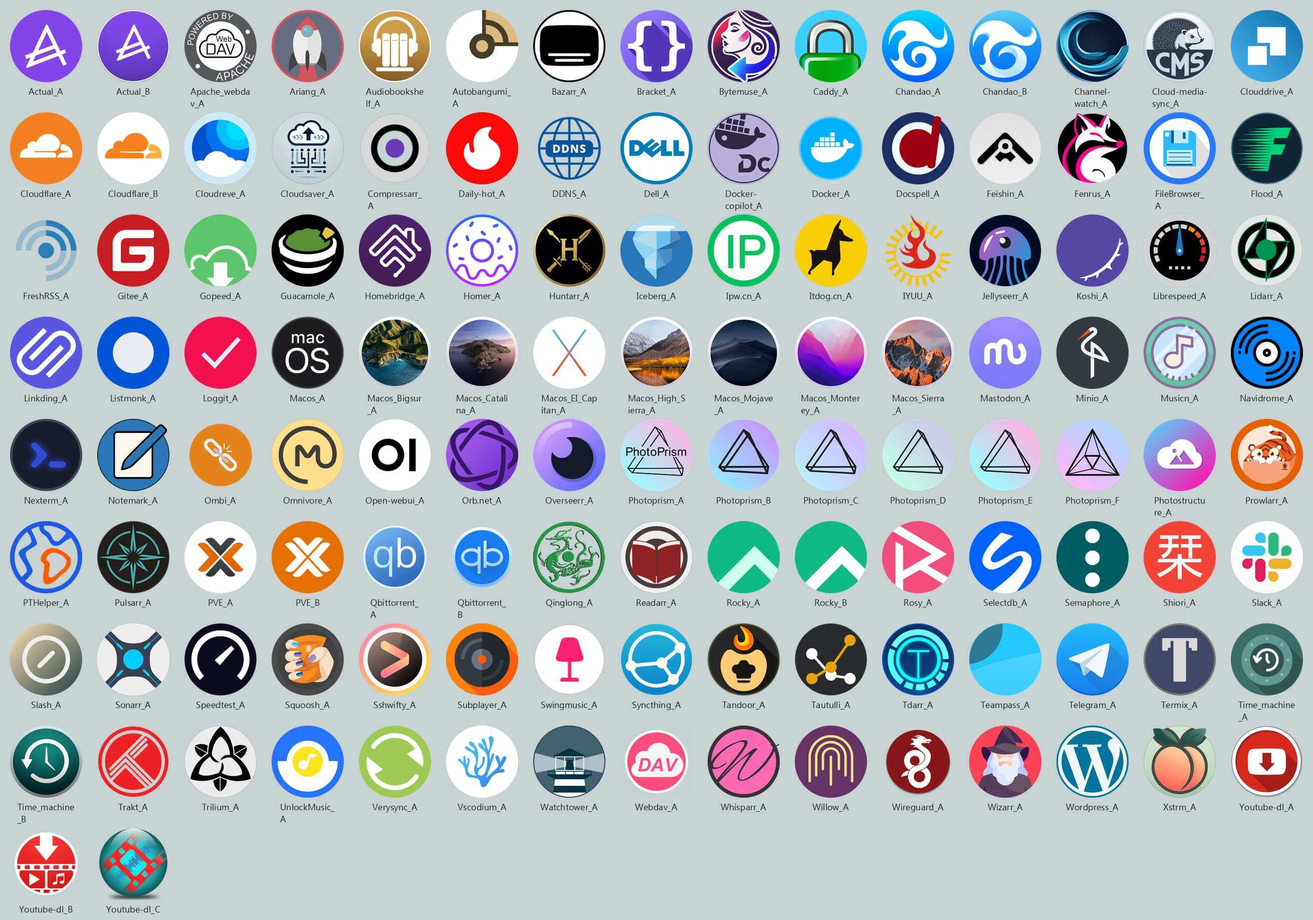
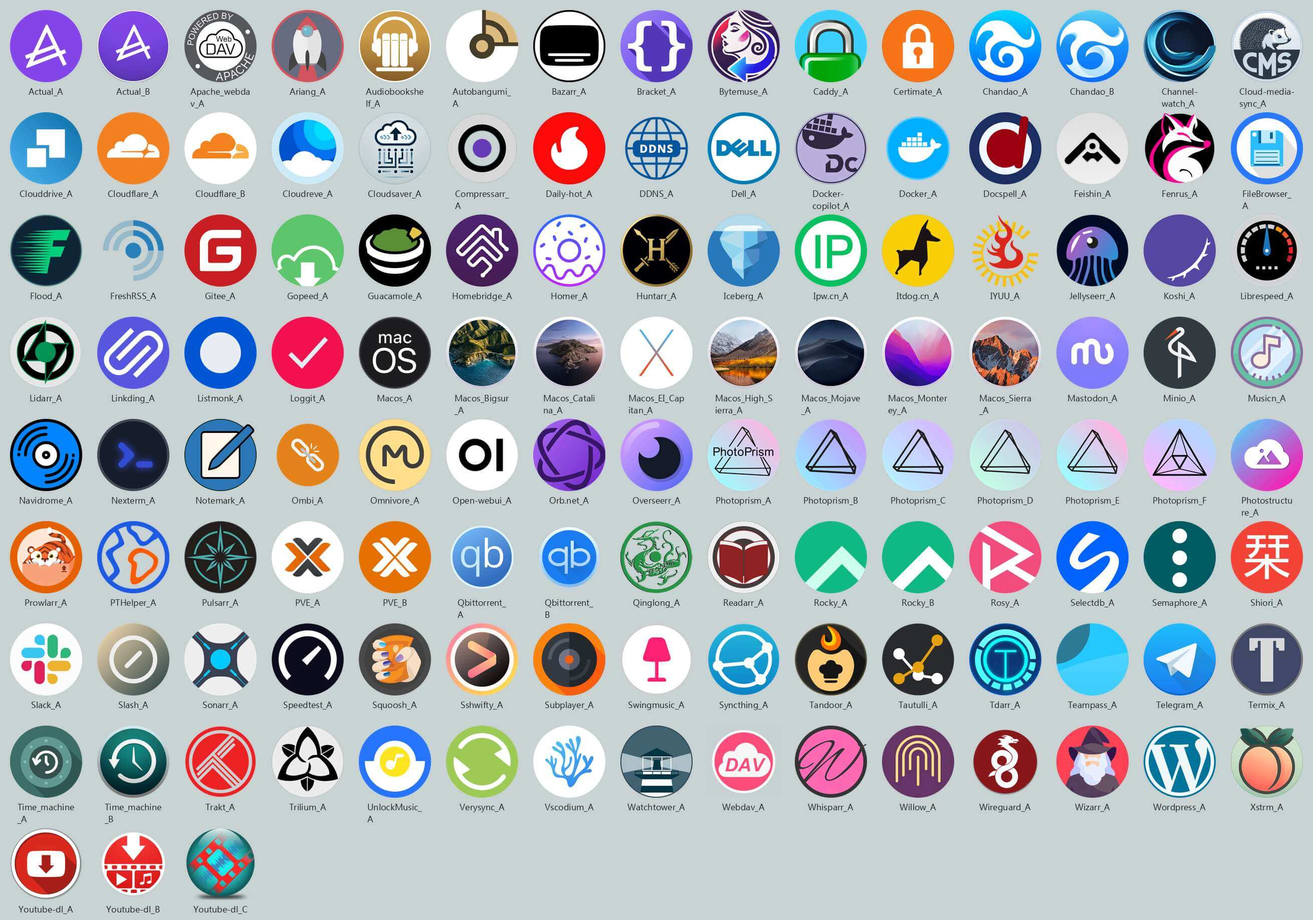
Add Certimate Pangolin Perlite Quark

diff --git a/README.md b/README.md
@@ -138,7 +138,7 @@
 直接导入图标包：`https://raw.githubusercontent.com/xushier/HD-Icons/main/icons.json`，若无反应，则需要开启代理环境。
 不想使用代理可以自己部署，详情请看：<a href="https://github.com/xushier/HD-Icons-docker"><strong>HD-Icons-docker »</strong></a>
 
-## ✨ 图标预览（当前共计 1478 个）
+## ✨ 图标预览（当前共计 1487 个）
 ### 圆角矩形图标
 <!-- START BORDER-RADIUS ICONS -->
 <img src="_icons-radius.jpg" alt="radius">
@@ -153,7 +153,7 @@
 <!-- START SVG ICONS -->
 
 <!-- END SVG ICONS -->
-<img src="svg/9Kuai_A.svg" alt="9Kuai_A" width="95"> <img src="svg/Actual_A.svg" alt="Actual_A" width="95"> <img src="svg/Acunetix_A.svg" alt="Acunetix_A" width="95"> <img src="svg/Adguard-home_A.svg" alt="Adguard-home_A" width="95"> <img src="svg/Adminer_A.svg" alt="Adminer_A" width="95"> <img src="svg/Airflow_A.svg" alt="Airflow_A" width="95"> <img src="svg/Airflow_B.svg" alt="Airflow_B" width="95"> <img src="svg/Airflow_C.svg" alt="Airflow_C" width="95"> <img src="svg/Alicloud_A.svg" alt="Alicloud_A" width="95"> <img src="svg/Alist_A.svg" alt="Alist_A" width="95"> <img src="svg/Amule_A.svg" alt="Amule_A" width="95"> <img src="svg/Anaconda_A.svg" alt="Anaconda_A" width="95"> <img src="svg/Anirss_A.svg" alt="Anirss_A" width="95"> <img src="svg/Apache_A.svg" alt="Apache_A" width="95"> <img src="svg/Apache_B.svg" alt="Apache_B" width="95"> <img src="svg/Apache_C.svg" alt="Apache_C" width="95"> <img src="svg/Appletv+_A.svg" alt="Appletv+_A" width="95"> <img src="svg/Aqua_A.svg" alt="Aqua_A" width="95"> <img src="svg/Arch_A.svg" alt="Arch_A" width="95"> <img src="svg/Atuin_A.svg" alt="Atuin_A" width="95"> <img src="svg/Audio-bookshelf_A.svg" alt="Audio-bookshelf_A" width="95"> <img src="svg/Authelia_A.svg" alt="Authelia_A" width="95"> <img src="svg/Authelia_B.svg" alt="Authelia_B" width="95"> <img src="svg/Authentik_A.svg" alt="Authentik_A" width="95"> <img src="svg/Autobrr_A.svg" alt="Autobrr_A" width="95"> <img src="svg/Baidu_A.svg" alt="Baidu_A" width="95"> <img src="svg/Bard_A.svg" alt="Bard_A" width="95"> <img src="svg/Baserow_A.svg" alt="Baserow_A" width="95"> <img src="svg/Bazarr_A.svg" alt="Bazarr_A" width="95"> <img src="svg/BigDataTools_A.svg" alt="BigDataTools_A" width="95"> <img src="svg/Bilibili_A.svg" alt="Bilibili_A" width="95"> <img src="svg/Bililive-recorder_A.svg" alt="Bililive-recorder_A" width="95"> <img src="svg/Bitwarden_A.svg" alt="Bitwarden_A" width="95"> <img src="svg/Bitwarden_B.svg" alt="Bitwarden_B" width="95"> <img src="svg/Blinko_A.svg" alt="Blinko_A" width="95"> <img src="svg/Blossom_A.svg" alt="Blossom_A" width="95"> <img src="svg/Bracket_A.svg" alt="Bracket_A" width="95"> <img src="svg/Bytebase_A.svg" alt="Bytebase_A" width="95"> <img src="svg/Caddy_A.svg" alt="Caddy_A" width="95"> <img src="svg/Cal.com_A.svg" alt="Cal.com_A" width="95"> <img src="svg/Calibre-web_A.svg" alt="Calibre-web_A" width="95"> <img src="svg/Casaos_A.svg" alt="Casaos_A" width="95"> <img src="svg/Centos_A.svg" alt="Centos_A" width="95"> <img src="svg/Centos_B.svg" alt="Centos_B" width="95"> <img src="svg/Chatgpt_A.svg" alt="Chatgpt_A" width="95"> <img src="svg/Chatgpt_B.svg" alt="Chatgpt_B" width="95"> <img src="svg/Chevereto_A.svg" alt="Chevereto_A" width="95"> <img src="svg/Chrome_A.svg" alt="Chrome_A" width="95"> <img src="svg/Cisco_A.svg" alt="Cisco_A" width="95"> <img src="svg/Claper_A.svg" alt="Claper_A" width="95"> <img src="svg/CLion_A.svg" alt="CLion_A" width="95"> <img src="svg/Cloud-beaver_A.svg" alt="Cloud-beaver_A" width="95"> <img src="svg/Cloud-beaver_B.svg" alt="Cloud-beaver_B" width="95"> <img src="svg/Cloudflare_A.svg" alt="Cloudflare_A" width="95"> <img src="svg/Cloudflare_B.svg" alt="Cloudflare_B" width="95"> <img src="svg/Cloudreve_A.svg" alt="Cloudreve_A" width="95"> <img src="svg/Code-server_A.svg" alt="Code-server_A" width="95"> <img src="svg/Code-with-me_A.svg" alt="Code-with-me_A" width="95"> <img src="svg/Codex-docs_A.svg" alt="Codex-docs_A" width="95"> <img src="svg/Cooler-control_A.svg" alt="Cooler-control_A" width="95"> <img src="svg/Cyberchef_A.svg" alt="Cyberchef_A" width="95"> <img src="svg/Cyberchef_B.svg" alt="Cyberchef_B" width="95"> <img src="svg/DataGrip_A.svg" alt="DataGrip_A" width="95"> <img src="svg/Datalore_A.svg" alt="Datalore_A" width="95"> <img src="svg/DataSpell_A.svg" alt="DataSpell_A" width="95"> <img src="svg/Dawarich_A.svg" alt="Dawarich_A" width="95"> <img src="svg/Debian_A.svg" alt="Debian_A" width="95"> <img src="svg/Debian_B.svg" alt="Debian_B" width="95"> <img src="svg/Deepin_A.svg" alt="Deepin_A" width="95"> <img src="svg/Deepseek_A.svg" alt="Deepseek_A" width="95"> <img src="svg/Dell_A.svg" alt="Dell_A" width="95"> <img src="svg/Deluge_A.svg" alt="Deluge_A" width="95"> <img src="svg/Directus_A.svg" alt="Directus_A" width="95"> <img src="svg/Directus_B.svg" alt="Directus_B" width="95"> <img src="svg/Discord_A.svg" alt="Discord_A" width="95"> <img src="svg/DM_20240201114214_043.svg" alt="DM_20240201114214_043" width="95"> <img src="svg/Docker-registry_A.svg" alt="Docker-registry_A" width="95"> <img src="svg/Docker_A.svg" alt="Docker_A" width="95"> <img src="svg/Docker_B.svg" alt="Docker_B" width="95"> <img src="svg/Docker_C.svg" alt="Docker_C" width="95"> <img src="svg/Docker_D.svg" alt="Docker_D" width="95"> <img src="svg/Docspell_A.svg" alt="Docspell_A" width="95"> <img src="svg/Dootask.svg" alt="Dootask" width="95"> <img src="svg/Doris_A.svg" alt="Doris_A" width="95"> <img src="svg/DotCover_A.svg" alt="DotCover_A" width="95"> <img src="svg/DotMemory_A.svg" alt="DotMemory_A" width="95"> <img src="svg/DotPeek_A.svg" alt="DotPeek_A" width="95"> <img src="svg/DotTrace_A.svg" alt="DotTrace_A" width="95"> <img src="svg/Dozzle_A.svg" alt="Dozzle_A" width="95"> <img src="svg/Drawio_A.svg" alt="Drawio_A" width="95"> <img src="svg/Dumb-assets_A.svg" alt="Dumb-assets_A" width="95"> <img src="svg/Duplicati_A.svg" alt="Duplicati_A" width="95"> <img src="svg/Element_A.svg" alt="Element_A" width="95"> <img src="svg/Etherpad_A.svg" alt="Etherpad_A" width="95"> <img src="svg/Featherwiki_A.svg" alt="Featherwiki_A" width="95"> <img src="svg/Fenrus_A.svg" alt="Fenrus_A" width="95"> <img src="svg/Filerise_A.svg" alt="Filerise_A" width="95"> <img src="svg/Filerise_B.svg" alt="Filerise_B" width="95"> <img src="svg/Filerise_C.svg" alt="Filerise_C" width="95"> <img src="svg/Flaresolverr_A.svg" alt="Flaresolverr_A" width="95"> <img src="svg/Fleet_A.svg" alt="Fleet_A" width="95"> <img src="svg/Flink_A.svg" alt="Flink_A" width="95"> <img src="svg/Flink_B.svg" alt="Flink_B" width="95"> <img src="svg/Fmd-server_A.svg" alt="Fmd-server_A" width="95"> <img src="svg/Focalboard_A.svg" alt="Focalboard_A" width="95"> <img src="svg/Folder_A.svg" alt="Folder_A" width="95"> <img src="svg/Forgejo_A.svg" alt="Forgejo_A" width="95"> <img src="svg/Gcore_A.svg" alt="Gcore_A" width="95"> <img src="svg/Git_A.svg" alt="Git_A" width="95"> <img src="svg/Git_B.svg" alt="Git_B" width="95"> <img src="svg/Gitee_A.svg" alt="Gitee_A" width="95"> <img src="svg/Gitlab_A.svg" alt="Gitlab_A" width="95"> <img src="svg/Glances_A.svg" alt="Glances_A" width="95"> <img src="svg/Glances_B.svg" alt="Glances_B" width="95"> <img src="svg/Glances_C.svg" alt="Glances_C" width="95"> <img src="svg/Glances_D.svg" alt="Glances_D" width="95"> <img src="svg/GoLand_A.svg" alt="GoLand_A" width="95"> <img src="svg/Gopeed_A.svg" alt="Gopeed_A" width="95"> <img src="svg/Grimoire_A.svg" alt="Grimoire_A" width="95"> <img src="svg/Hadoop_A.svg" alt="Hadoop_A" width="95"> <img src="svg/Hadoop_B.svg" alt="Hadoop_B" width="95"> <img src="svg/Hedgedoc_A.svg" alt="Hedgedoc_A" width="95"> <img src="svg/Heyform_A.svg" alt="Heyform_A" width="95"> <img src="svg/Hive_A.svg" alt="Hive_A" width="95"> <img src="svg/Hoarder_A.svg" alt="Hoarder_A" width="95"> <img src="svg/Home-gallery_A.svg" alt="Home-gallery_A" width="95"> <img src="svg/Homer_A.svg" alt="Homer_A" width="95"> <img src="svg/Huntarr_A.svg" alt="Huntarr_A" width="95"> <img src="svg/Intellij-idea_A.svg" alt="Intellij-idea_A" width="95"> <img src="svg/Ipw.cn_A.svg" alt="Ipw.cn_A" width="95"> <img src="svg/It-tools_A.svg" alt="It-tools_A" width="95"> <img src="svg/Jfa-go_A.svg" alt="Jfa-go_A" width="95"> <img src="svg/Jfa-go_B.svg" alt="Jfa-go_B" width="95"> <img src="svg/Jmalcloud_A.svg" alt="Jmalcloud_A" width="95"> <img src="svg/Jupyter_B.svg" alt="Jupyter_B" width="95"> <img src="svg/Koel_A.svg" alt="Koel_A" width="95"> <img src="svg/Kopia_A.svg" alt="Kopia_A" width="95"> <img src="svg/Kotlin_A.svg" alt="Kotlin_A" width="95"> <img src="svg/Ktor_A.svg" alt="Ktor_A" width="95"> <img src="svg/Leichi_A.svg" alt="Leichi_A" width="95"> <img src="svg/Librespeed_A.svg" alt="Librespeed_A" width="95"> <img src="svg/Limesurvey_A.svg" alt="Limesurvey_A" width="95"> <img src="svg/Linkding_A.svg" alt="Linkding_A" width="95"> <img src="svg/Listmonk_A.svg" alt="Listmonk_A" width="95"> <img src="svg/Loggit_A.svg" alt="Loggit_A" width="95"> <img src="svg/Lol-esports_A.svg" alt="Lol-esports_A" width="95"> <img src="svg/Lrcapi_A.svg" alt="Lrcapi_A" width="95"> <img src="svg/Lynx_A.svg" alt="Lynx_A" width="95"> <img src="svg/Mafl_A.svg" alt="Mafl_A" width="95"> <img src="svg/Manticore-search_A.svg" alt="Manticore-search_A" width="95"> <img src="svg/Mastodon_A.svg" alt="Mastodon_A" width="95"> <img src="svg/Mastodon_B.svg" alt="Mastodon_B" width="95"> <img src="svg/Mathesar_A.svg" alt="Mathesar_A" width="95"> <img src="svg/Mautic_A.svg" alt="Mautic_A" width="95"> <img src="svg/Mediawiki_A.svg" alt="Mediawiki_A" width="95"> <img src="svg/Meilisearch_A.svg" alt="Meilisearch_A" width="95"> <img src="svg/Meremedical_A.svg" alt="Meremedical_A" width="95"> <img src="svg/Metabase_A.svg" alt="Metabase_A" width="95"> <img src="svg/Metacubexd_A.svg" alt="Metacubexd_A" width="95"> <img src="svg/Microtalk-p2p_A.svg" alt="Microtalk-p2p_A" width="95"> <img src="svg/Microtalk-sfu_A.svg" alt="Microtalk-sfu_A" width="95"> <img src="svg/Mindsdb_A.svg" alt="Mindsdb_A" width="95"> <img src="svg/Miniserve_A.svg" alt="Miniserve_A" width="95"> <img src="svg/Moodle_A.svg" alt="Moodle_A" width="95"> <img src="svg/MPS_A.svg" alt="MPS_A" width="95"> <img src="svg/N8n_A.svg" alt="N8n_A" width="95"> <img src="svg/Namecheap-ddns-updater_A.svg" alt="Namecheap-ddns-updater_A" width="95"> <img src="svg/News-now_A.svg" alt="News-now_A" width="95"> <img src="svg/Nexterm_A.svg" alt="Nexterm_A" width="95"> <img src="svg/Nezha_A.svg" alt="Nezha_A" width="95"> <img src="svg/Nginx_A.svg" alt="Nginx_A" width="95"> <img src="svg/Nginx_B.svg" alt="Nginx_B" width="95"> <img src="svg/Nginx_C.svg" alt="Nginx_C" width="95"> <img src="svg/Notabase_A.svg" alt="Notabase_A" width="95"> <img src="svg/Notemark_A.svg" alt="Notemark_A" width="95"> <img src="svg/Nut_A.svg" alt="Nut_A" width="95"> <img src="svg/Nvidia_A.svg" alt="Nvidia_A" width="95"> <img src="svg/Oauth2proxy_A.svg" alt="Oauth2proxy_A" width="95"> <img src="svg/Ollama_A.svg" alt="Ollama_A" width="95"> <img src="svg/One-kvm_A.svg" alt="One-kvm_A" width="95"> <img src="svg/Onestrm_A.svg" alt="Onestrm_A" width="95"> <img src="svg/Open-metadata_A.svg" alt="Open-metadata_A" width="95"> <img src="svg/Open-webui_A.svg" alt="Open-webui_A" width="95"> <img src="svg/Openlist_A.svg" alt="Openlist_A" width="95"> <img src="svg/Opentofu_A.svg" alt="Opentofu_A" width="95"> <img src="svg/Orb.net_A.svg" alt="Orb.net_A" width="95"> <img src="svg/Orion-visor_A.svg" alt="Orion-visor_A" width="95"> <img src="svg/Outline_A.svg" alt="Outline_A" width="95"> <img src="svg/Oxicloud_A.svg" alt="Oxicloud_A" width="95"> <img src="svg/Padloc_A.svg" alt="Padloc_A" width="95"> <img src="svg/Paperless_A.svg" alt="Paperless_A" width="95"> <img src="svg/Photopea_A.svg" alt="Photopea_A" width="95"> <img src="svg/PhpStorm_A.svg" alt="PhpStorm_A" width="95"> <img src="svg/Plex_A.svg" alt="Plex_A" width="95"> <img src="svg/Plex_B.svg" alt="Plex_B" width="95"> <img src="svg/Plex_C.svg" alt="Plex_C" width="95"> <img src="svg/Ptools_A.svg" alt="Ptools_A" width="95"> <img src="svg/Pulsarr_A.svg" alt="Pulsarr_A" width="95"> <img src="svg/PyCharm_A.svg" alt="PyCharm_A" width="95"> <img src="svg/Python_A.svg" alt="Python_A" width="95"> <img src="svg/Qi-reader_A.svg" alt="Qi-reader_A" width="95"> <img src="svg/Qnap_A.svg" alt="Qnap_A" width="95"> <img src="svg/Qnap_B.svg" alt="Qnap_B" width="95"> <img src="svg/Qodana_A.svg" alt="Qodana_A" width="95"> <img src="svg/Quill_A.svg" alt="Quill_A" width="95"> <img src="svg/Radarr_A.svg" alt="Radarr_A" width="95"> <img src="svg/Readeck_A.svg" alt="Readeck_A" width="95"> <img src="svg/Readeck_B.svg" alt="Readeck_B" width="95"> <img src="svg/Readthedocs_A.svg" alt="Readthedocs_A" width="95"> <img src="svg/ReSharper_A.svg" alt="ReSharper_A" width="95"> <img src="svg/ReSharperC++_A.svg" alt="ReSharperC++_A" width="95"> <img src="svg/Rider_A.svg" alt="Rider_A" width="95"> <img src="svg/RiderFlow_A.svg" alt="RiderFlow_A" width="95"> <img src="svg/Riot-games_A.svg" alt="Riot-games_A" width="95"> <img src="svg/Rocky_A.svg" alt="Rocky_A" width="95"> <img src="svg/Rog_A.svg" alt="Rog_A" width="95"> <img src="svg/RubyMine_A.svg" alt="RubyMine_A" width="95"> <img src="svg/RustRover_A.svg" alt="RustRover_A" width="95"> <img src="svg/Rxresume_A.svg" alt="Rxresume_A" width="95"> <img src="svg/Scala_A.svg" alt="Scala_A" width="95"> <img src="svg/Semaphore_A.svg" alt="Semaphore_A" width="95"> <img src="svg/Servas_A.svg" alt="Servas_A" width="95"> <img src="svg/Shadcn-ui_A.svg" alt="Shadcn-ui_A" width="95"> <img src="svg/Snapdrop_A.svg" alt="Snapdrop_A" width="95"> <img src="svg/Sonatype-nexus-repository_A.svg" alt="Sonatype-nexus-repository_A" width="95"> <img src="svg/Sonatype-nexus-repository_B.svg" alt="Sonatype-nexus-repository_B" width="95"> <img src="svg/Sonatype_A.svg" alt="Sonatype_A" width="95"> <img src="svg/Splayer_A.svg" alt="Splayer_A" width="95"> <img src="svg/Squoosh_A.svg" alt="Squoosh_A" width="95"> <img src="svg/Stash_A.svg" alt="Stash_A" width="95"> <img src="svg/Sunpanel_A.svg" alt="Sunpanel_A" width="95"> <img src="svg/Superset_A.svg" alt="Superset_A" width="95"> <img src="svg/Superset_B.svg" alt="Superset_B" width="95"> <img src="svg/Superset_C.svg" alt="Superset_C" width="95"> <img src="svg/Superset_D.svg" alt="Superset_D" width="95"> <img src="svg/Superset_E.svg" alt="Superset_E" width="95"> <img src="svg/Superset_F.svg" alt="Superset_F" width="95"> <img src="svg/Superset_G.svg" alt="Superset_G" width="95"> <img src="svg/Swing-music_A.svg" alt="Swing-music_A" width="95"> <img src="svg/Synctv_A.svg" alt="Synctv_A" width="95"> <img src="svg/Synctv_B.svg" alt="Synctv_B" width="95"> <img src="svg/Tailchat_A.svg" alt="Tailchat_A" width="95"> <img src="svg/Taosync_A.svg" alt="Taosync_A" width="95"> <img src="svg/Teable_A.svg" alt="Teable_A" width="95"> <img src="svg/Team-mapper_A.svg" alt="Team-mapper_A" width="95"> <img src="svg/Teampass_A.svg" alt="Teampass_A" width="95"> <img src="svg/Telegram_A.svg" alt="Telegram_A" width="95"> <img src="svg/Telegram_B.svg" alt="Telegram_B" width="95"> <img src="svg/Telegram_C.svg" alt="Telegram_C" width="95"> <img src="svg/The-lounge_A.svg" alt="The-lounge_A" width="95"> <img src="svg/Thunderbird_A.svg" alt="Thunderbird_A" width="95"> <img src="svg/Tongyi_A.svg" alt="Tongyi_A" width="95"> <img src="svg/ToolBox_A.svg" alt="ToolBox_A" width="95"> <img src="svg/Traccar_A.svg" alt="Traccar_A" width="95"> <img src="svg/Ubuntu_A.svg" alt="Ubuntu_A" width="95"> <img src="svg/Ubuntu_B.svg" alt="Ubuntu_B" width="95"> <img src="svg/Ubuntu_C.svg" alt="Ubuntu_C" width="95"> <img src="svg/Unbalance_A.svg" alt="Unbalance_A" width="95"> <img src="svg/Unlock-music_A.svg" alt="Unlock-music_A" width="95"> <img src="svg/Unraid_A.svg" alt="Unraid_A" width="95"> <img src="svg/Uptime-kuma_A.svg" alt="Uptime-kuma_A" width="95"> <img src="svg/V2raya_A.svg" alt="V2raya_A" width="95"> <img src="svg/Vagrant_A.svg" alt="Vagrant_A" width="95"> <img src="svg/Vertex_A.svg" alt="Vertex_A" width="95"> <img src="svg/Vertex_B.svg" alt="Vertex_B" width="95"> <img src="svg/Vmware_A.svg" alt="Vmware_A" width="95"> <img src="svg/Vscode_A.svg" alt="Vscode_A" width="95"> <img src="svg/Vscode_B.svg" alt="Vscode_B" width="95"> <img src="svg/Vscodium_A.svg" alt="Vscodium_A" width="95"> <img src="svg/Vscodium_B.svg" alt="Vscodium_B" width="95"> <img src="svg/Vuetify_A.svg" alt="Vuetify_A" width="95"> <img src="svg/Wallabag_A.svg" alt="Wallabag_A" width="95"> <img src="svg/Wallabag_B.svg" alt="Wallabag_B" width="95"> <img src="svg/Wallabag_C.svg" alt="Wallabag_C" width="95"> <img src="svg/Wallos_A.svg" alt="Wallos_A" width="95"> <img src="svg/Watchtower_A.svg" alt="Watchtower_A" width="95"> <img src="svg/Wbo_A.svg" alt="Wbo_A" width="95"> <img src="svg/WebStorm_A.svg" alt="WebStorm_A" width="95"> <img src="svg/Wechat_A.svg" alt="Wechat_A" width="95"> <img src="svg/Wechat_B.svg" alt="Wechat_B" width="95"> <img src="svg/Weclone_A.svg" alt="Weclone_A" width="95"> <img src="svg/Wekan_A.svg" alt="Wekan_A" width="95"> <img src="svg/Wekan_B.svg" alt="Wekan_B" width="95"> <img src="svg/Whisparr_A.svg" alt="Whisparr_A" width="95"> <img src="svg/Wikijs_A.svg" alt="Wikijs_A" width="95"> <img src="svg/Willow_A.svg" alt="Willow_A" width="95"> <img src="svg/Windows-server_A.svg" alt="Windows-server_A" width="95"> <img src="svg/Windows10_A.svg" alt="Windows10_A" width="95"> <img src="svg/Windows7_A.svg" alt="Windows7_A" width="95"> <img src="svg/Windows8_A.svg" alt="Windows8_A" width="95"> <img src="svg/Windows95_A.svg" alt="Windows95_A" width="95"> <img src="svg/Wireguard_A.svg" alt="Wireguard_A" width="95"> <img src="svg/Wise-mapping_A.svg" alt="Wise-mapping_A" width="95"> <img src="svg/Wordpress_A.svg" alt="Wordpress_A" width="95"> <img src="svg/Writerside_A.svg" alt="Writerside_A" width="95"> <img src="svg/YouTrack_A.svg" alt="YouTrack_A" width="95"> <img src="svg/Youtube_A.svg" alt="Youtube_A" width="95"> <img src="svg/Youtube_B.svg" alt="Youtube_B" width="95"> <img src="svg/Youtube_C.svg" alt="Youtube_C" width="95"> <img src="svg/Youtube_D.svg" alt="Youtube_D" width="95"> <img src="svg/Youtube_E.svg" alt="Youtube_E" width="95"> <img src="svg/Zfile_A.svg" alt="Zfile_A" width="95"> <img src="svg/Zigbeemqtt_A.svg" alt="Zigbeemqtt_A" width="95"> <img src="svg/Zimaos_A.svg" alt="Zimaos_A" width="95"> <img src="svg/节点小宝_A.svg" alt="节点小宝_A" width="95">
+<img src="svg/9Kuai_A.svg" alt="9Kuai_A" width="95"> <img src="svg/Actual_A.svg" alt="Actual_A" width="95"> <img src="svg/Acunetix_A.svg" alt="Acunetix_A" width="95"> <img src="svg/Adguard-home_A.svg" alt="Adguard-home_A" width="95"> <img src="svg/Adminer_A.svg" alt="Adminer_A" width="95"> <img src="svg/Airflow_A.svg" alt="Airflow_A" width="95"> <img src="svg/Airflow_B.svg" alt="Airflow_B" width="95"> <img src="svg/Airflow_C.svg" alt="Airflow_C" width="95"> <img src="svg/Alicloud_A.svg" alt="Alicloud_A" width="95"> <img src="svg/Alist_A.svg" alt="Alist_A" width="95"> <img src="svg/Amule_A.svg" alt="Amule_A" width="95"> <img src="svg/Anaconda_A.svg" alt="Anaconda_A" width="95"> <img src="svg/Anirss_A.svg" alt="Anirss_A" width="95"> <img src="svg/Apache_A.svg" alt="Apache_A" width="95"> <img src="svg/Apache_B.svg" alt="Apache_B" width="95"> <img src="svg/Apache_C.svg" alt="Apache_C" width="95"> <img src="svg/Appletv+_A.svg" alt="Appletv+_A" width="95"> <img src="svg/Aqua_A.svg" alt="Aqua_A" width="95"> <img src="svg/Arch_A.svg" alt="Arch_A" width="95"> <img src="svg/Atuin_A.svg" alt="Atuin_A" width="95"> <img src="svg/Audio-bookshelf_A.svg" alt="Audio-bookshelf_A" width="95"> <img src="svg/Authelia_A.svg" alt="Authelia_A" width="95"> <img src="svg/Authelia_B.svg" alt="Authelia_B" width="95"> <img src="svg/Authentik_A.svg" alt="Authentik_A" width="95"> <img src="svg/Autobrr_A.svg" alt="Autobrr_A" width="95"> <img src="svg/Baidu_A.svg" alt="Baidu_A" width="95"> <img src="svg/Bard_A.svg" alt="Bard_A" width="95"> <img src="svg/Baserow_A.svg" alt="Baserow_A" width="95"> <img src="svg/Bazarr_A.svg" alt="Bazarr_A" width="95"> <img src="svg/BigDataTools_A.svg" alt="BigDataTools_A" width="95"> <img src="svg/Bilibili_A.svg" alt="Bilibili_A" width="95"> <img src="svg/Bililive-recorder_A.svg" alt="Bililive-recorder_A" width="95"> <img src="svg/Bitwarden_A.svg" alt="Bitwarden_A" width="95"> <img src="svg/Bitwarden_B.svg" alt="Bitwarden_B" width="95"> <img src="svg/Blinko_A.svg" alt="Blinko_A" width="95"> <img src="svg/Blossom_A.svg" alt="Blossom_A" width="95"> <img src="svg/Bracket_A.svg" alt="Bracket_A" width="95"> <img src="svg/Bytebase_A.svg" alt="Bytebase_A" width="95"> <img src="svg/Caddy_A.svg" alt="Caddy_A" width="95"> <img src="svg/Cal.com_A.svg" alt="Cal.com_A" width="95"> <img src="svg/Calibre-web_A.svg" alt="Calibre-web_A" width="95"> <img src="svg/Casaos_A.svg" alt="Casaos_A" width="95"> <img src="svg/Centos_A.svg" alt="Centos_A" width="95"> <img src="svg/Centos_B.svg" alt="Centos_B" width="95"> <img src="svg/Certimate_A.svg" alt="Certimate_A" width="95"> <img src="svg/Chatgpt_A.svg" alt="Chatgpt_A" width="95"> <img src="svg/Chatgpt_B.svg" alt="Chatgpt_B" width="95"> <img src="svg/Chevereto_A.svg" alt="Chevereto_A" width="95"> <img src="svg/Chrome_A.svg" alt="Chrome_A" width="95"> <img src="svg/Cisco_A.svg" alt="Cisco_A" width="95"> <img src="svg/Claper_A.svg" alt="Claper_A" width="95"> <img src="svg/CLion_A.svg" alt="CLion_A" width="95"> <img src="svg/Cloud-beaver_A.svg" alt="Cloud-beaver_A" width="95"> <img src="svg/Cloud-beaver_B.svg" alt="Cloud-beaver_B" width="95"> <img src="svg/Cloudflare_A.svg" alt="Cloudflare_A" width="95"> <img src="svg/Cloudflare_B.svg" alt="Cloudflare_B" width="95"> <img src="svg/Cloudreve_A.svg" alt="Cloudreve_A" width="95"> <img src="svg/Code-server_A.svg" alt="Code-server_A" width="95"> <img src="svg/Code-with-me_A.svg" alt="Code-with-me_A" width="95"> <img src="svg/Codex-docs_A.svg" alt="Codex-docs_A" width="95"> <img src="svg/Cooler-control_A.svg" alt="Cooler-control_A" width="95"> <img src="svg/Cyberchef_A.svg" alt="Cyberchef_A" width="95"> <img src="svg/Cyberchef_B.svg" alt="Cyberchef_B" width="95"> <img src="svg/DataGrip_A.svg" alt="DataGrip_A" width="95"> <img src="svg/Datalore_A.svg" alt="Datalore_A" width="95"> <img src="svg/DataSpell_A.svg" alt="DataSpell_A" width="95"> <img src="svg/Dawarich_A.svg" alt="Dawarich_A" width="95"> <img src="svg/Debian_A.svg" alt="Debian_A" width="95"> <img src="svg/Debian_B.svg" alt="Debian_B" width="95"> <img src="svg/Deepin_A.svg" alt="Deepin_A" width="95"> <img src="svg/Deepseek_A.svg" alt="Deepseek_A" width="95"> <img src="svg/Dell_A.svg" alt="Dell_A" width="95"> <img src="svg/Deluge_A.svg" alt="Deluge_A" width="95"> <img src="svg/Directus_A.svg" alt="Directus_A" width="95"> <img src="svg/Directus_B.svg" alt="Directus_B" width="95"> <img src="svg/Discord_A.svg" alt="Discord_A" width="95"> <img src="svg/DM_20240201114214_043.svg" alt="DM_20240201114214_043" width="95"> <img src="svg/Docker-registry_A.svg" alt="Docker-registry_A" width="95"> <img src="svg/Docker_A.svg" alt="Docker_A" width="95"> <img src="svg/Docker_B.svg" alt="Docker_B" width="95"> <img src="svg/Docker_C.svg" alt="Docker_C" width="95"> <img src="svg/Docker_D.svg" alt="Docker_D" width="95"> <img src="svg/Docspell_A.svg" alt="Docspell_A" width="95"> <img src="svg/Dootask.svg" alt="Dootask" width="95"> <img src="svg/Doris_A.svg" alt="Doris_A" width="95"> <img src="svg/DotCover_A.svg" alt="DotCover_A" width="95"> <img src="svg/DotMemory_A.svg" alt="DotMemory_A" width="95"> <img src="svg/DotPeek_A.svg" alt="DotPeek_A" width="95"> <img src="svg/DotTrace_A.svg" alt="DotTrace_A" width="95"> <img src="svg/Dozzle_A.svg" alt="Dozzle_A" width="95"> <img src="svg/Drawio_A.svg" alt="Drawio_A" width="95"> <img src="svg/Dumb-assets_A.svg" alt="Dumb-assets_A" width="95"> <img src="svg/Duplicati_A.svg" alt="Duplicati_A" width="95"> <img src="svg/Element_A.svg" alt="Element_A" width="95"> <img src="svg/Etherpad_A.svg" alt="Etherpad_A" width="95"> <img src="svg/Featherwiki_A.svg" alt="Featherwiki_A" width="95"> <img src="svg/Fenrus_A.svg" alt="Fenrus_A" width="95"> <img src="svg/Filerise_A.svg" alt="Filerise_A" width="95"> <img src="svg/Filerise_B.svg" alt="Filerise_B" width="95"> <img src="svg/Filerise_C.svg" alt="Filerise_C" width="95"> <img src="svg/Flaresolverr_A.svg" alt="Flaresolverr_A" width="95"> <img src="svg/Fleet_A.svg" alt="Fleet_A" width="95"> <img src="svg/Flink_A.svg" alt="Flink_A" width="95"> <img src="svg/Flink_B.svg" alt="Flink_B" width="95"> <img src="svg/Fmd-server_A.svg" alt="Fmd-server_A" width="95"> <img src="svg/Focalboard_A.svg" alt="Focalboard_A" width="95"> <img src="svg/Folder_A.svg" alt="Folder_A" width="95"> <img src="svg/Forgejo_A.svg" alt="Forgejo_A" width="95"> <img src="svg/Gcore_A.svg" alt="Gcore_A" width="95"> <img src="svg/Git_A.svg" alt="Git_A" width="95"> <img src="svg/Git_B.svg" alt="Git_B" width="95"> <img src="svg/Gitee_A.svg" alt="Gitee_A" width="95"> <img src="svg/Gitlab_A.svg" alt="Gitlab_A" width="95"> <img src="svg/Glances_A.svg" alt="Glances_A" width="95"> <img src="svg/Glances_B.svg" alt="Glances_B" width="95"> <img src="svg/Glances_C.svg" alt="Glances_C" width="95"> <img src="svg/Glances_D.svg" alt="Glances_D" width="95"> <img src="svg/GoLand_A.svg" alt="GoLand_A" width="95"> <img src="svg/Gopeed_A.svg" alt="Gopeed_A" width="95"> <img src="svg/Grimoire_A.svg" alt="Grimoire_A" width="95"> <img src="svg/Hadoop_A.svg" alt="Hadoop_A" width="95"> <img src="svg/Hadoop_B.svg" alt="Hadoop_B" width="95"> <img src="svg/Hedgedoc_A.svg" alt="Hedgedoc_A" width="95"> <img src="svg/Heyform_A.svg" alt="Heyform_A" width="95"> <img src="svg/Hive_A.svg" alt="Hive_A" width="95"> <img src="svg/Hoarder_A.svg" alt="Hoarder_A" width="95"> <img src="svg/Home-gallery_A.svg" alt="Home-gallery_A" width="95"> <img src="svg/Homer_A.svg" alt="Homer_A" width="95"> <img src="svg/Huntarr_A.svg" alt="Huntarr_A" width="95"> <img src="svg/Intellij-idea_A.svg" alt="Intellij-idea_A" width="95"> <img src="svg/Ipw.cn_A.svg" alt="Ipw.cn_A" width="95"> <img src="svg/It-tools_A.svg" alt="It-tools_A" width="95"> <img src="svg/Jfa-go_A.svg" alt="Jfa-go_A" width="95"> <img src="svg/Jfa-go_B.svg" alt="Jfa-go_B" width="95"> <img src="svg/Jmalcloud_A.svg" alt="Jmalcloud_A" width="95"> <img src="svg/Jupyter_B.svg" alt="Jupyter_B" width="95"> <img src="svg/Koel_A.svg" alt="Koel_A" width="95"> <img src="svg/Kopia_A.svg" alt="Kopia_A" width="95"> <img src="svg/Kotlin_A.svg" alt="Kotlin_A" width="95"> <img src="svg/Ktor_A.svg" alt="Ktor_A" width="95"> <img src="svg/Leichi_A.svg" alt="Leichi_A" width="95"> <img src="svg/Librespeed_A.svg" alt="Librespeed_A" width="95"> <img src="svg/Limesurvey_A.svg" alt="Limesurvey_A" width="95"> <img src="svg/Linkding_A.svg" alt="Linkding_A" width="95"> <img src="svg/Listmonk_A.svg" alt="Listmonk_A" width="95"> <img src="svg/Loggit_A.svg" alt="Loggit_A" width="95"> <img src="svg/Lol-esports_A.svg" alt="Lol-esports_A" width="95"> <img src="svg/Lrcapi_A.svg" alt="Lrcapi_A" width="95"> <img src="svg/Lynx_A.svg" alt="Lynx_A" width="95"> <img src="svg/Mafl_A.svg" alt="Mafl_A" width="95"> <img src="svg/Manticore-search_A.svg" alt="Manticore-search_A" width="95"> <img src="svg/Mastodon_A.svg" alt="Mastodon_A" width="95"> <img src="svg/Mastodon_B.svg" alt="Mastodon_B" width="95"> <img src="svg/Mathesar_A.svg" alt="Mathesar_A" width="95"> <img src="svg/Mautic_A.svg" alt="Mautic_A" width="95"> <img src="svg/Mediawiki_A.svg" alt="Mediawiki_A" width="95"> <img src="svg/Meilisearch_A.svg" alt="Meilisearch_A" width="95"> <img src="svg/Meremedical_A.svg" alt="Meremedical_A" width="95"> <img src="svg/Metabase_A.svg" alt="Metabase_A" width="95"> <img src="svg/Metacubexd_A.svg" alt="Metacubexd_A" width="95"> <img src="svg/Microtalk-p2p_A.svg" alt="Microtalk-p2p_A" width="95"> <img src="svg/Microtalk-sfu_A.svg" alt="Microtalk-sfu_A" width="95"> <img src="svg/Mindsdb_A.svg" alt="Mindsdb_A" width="95"> <img src="svg/Miniserve_A.svg" alt="Miniserve_A" width="95"> <img src="svg/Moodle_A.svg" alt="Moodle_A" width="95"> <img src="svg/MPS_A.svg" alt="MPS_A" width="95"> <img src="svg/N8n_A.svg" alt="N8n_A" width="95"> <img src="svg/Namecheap-ddns-updater_A.svg" alt="Namecheap-ddns-updater_A" width="95"> <img src="svg/News-now_A.svg" alt="News-now_A" width="95"> <img src="svg/Nexterm_A.svg" alt="Nexterm_A" width="95"> <img src="svg/Nezha_A.svg" alt="Nezha_A" width="95"> <img src="svg/Nginx_A.svg" alt="Nginx_A" width="95"> <img src="svg/Nginx_B.svg" alt="Nginx_B" width="95"> <img src="svg/Nginx_C.svg" alt="Nginx_C" width="95"> <img src="svg/Notabase_A.svg" alt="Notabase_A" width="95"> <img src="svg/Notemark_A.svg" alt="Notemark_A" width="95"> <img src="svg/Nut_A.svg" alt="Nut_A" width="95"> <img src="svg/Nvidia_A.svg" alt="Nvidia_A" width="95"> <img src="svg/Oauth2proxy_A.svg" alt="Oauth2proxy_A" width="95"> <img src="svg/Ollama_A.svg" alt="Ollama_A" width="95"> <img src="svg/One-kvm_A.svg" alt="One-kvm_A" width="95"> <img src="svg/Onestrm_A.svg" alt="Onestrm_A" width="95"> <img src="svg/Open-metadata_A.svg" alt="Open-metadata_A" width="95"> <img src="svg/Open-webui_A.svg" alt="Open-webui_A" width="95"> <img src="svg/Openlist_A.svg" alt="Openlist_A" width="95"> <img src="svg/Opentofu_A.svg" alt="Opentofu_A" width="95"> <img src="svg/Orb.net_A.svg" alt="Orb.net_A" width="95"> <img src="svg/Orion-visor_A.svg" alt="Orion-visor_A" width="95"> <img src="svg/Outline_A.svg" alt="Outline_A" width="95"> <img src="svg/Oxicloud_A.svg" alt="Oxicloud_A" width="95"> <img src="svg/Padloc_A.svg" alt="Padloc_A" width="95"> <img src="svg/Pangolin_A.svg" alt="Pangolin_A" width="95"> <img src="svg/Paperless_A.svg" alt="Paperless_A" width="95"> <img src="svg/Perlite_A.svg" alt="Perlite_A" width="95"> <img src="svg/Photopea_A.svg" alt="Photopea_A" width="95"> <img src="svg/PhpStorm_A.svg" alt="PhpStorm_A" width="95"> <img src="svg/Plex_A.svg" alt="Plex_A" width="95"> <img src="svg/Plex_B.svg" alt="Plex_B" width="95"> <img src="svg/Plex_C.svg" alt="Plex_C" width="95"> <img src="svg/Ptools_A.svg" alt="Ptools_A" width="95"> <img src="svg/Pulsarr_A.svg" alt="Pulsarr_A" width="95"> <img src="svg/PyCharm_A.svg" alt="PyCharm_A" width="95"> <img src="svg/Python_A.svg" alt="Python_A" width="95"> <img src="svg/Qi-reader_A.svg" alt="Qi-reader_A" width="95"> <img src="svg/Qnap_A.svg" alt="Qnap_A" width="95"> <img src="svg/Qnap_B.svg" alt="Qnap_B" width="95"> <img src="svg/Qodana_A.svg" alt="Qodana_A" width="95"> <img src="svg/Quark_A.svg" alt="Quark_A" width="95"> <img src="svg/Quill_A.svg" alt="Quill_A" width="95"> <img src="svg/Radarr_A.svg" alt="Radarr_A" width="95"> <img src="svg/Readeck_A.svg" alt="Readeck_A" width="95"> <img src="svg/Readeck_B.svg" alt="Readeck_B" width="95"> <img src="svg/Readthedocs_A.svg" alt="Readthedocs_A" width="95"> <img src="svg/ReSharper_A.svg" alt="ReSharper_A" width="95"> <img src="svg/ReSharperC++_A.svg" alt="ReSharperC++_A" width="95"> <img src="svg/Rider_A.svg" alt="Rider_A" width="95"> <img src="svg/RiderFlow_A.svg" alt="RiderFlow_A" width="95"> <img src="svg/Riot-games_A.svg" alt="Riot-games_A" width="95"> <img src="svg/Rocky_A.svg" alt="Rocky_A" width="95"> <img src="svg/Rog_A.svg" alt="Rog_A" width="95"> <img src="svg/RubyMine_A.svg" alt="RubyMine_A" width="95"> <img src="svg/RustRover_A.svg" alt="RustRover_A" width="95"> <img src="svg/Rxresume_A.svg" alt="Rxresume_A" width="95"> <img src="svg/Scala_A.svg" alt="Scala_A" width="95"> <img src="svg/Semaphore_A.svg" alt="Semaphore_A" width="95"> <img src="svg/Servas_A.svg" alt="Servas_A" width="95"> <img src="svg/Shadcn-ui_A.svg" alt="Shadcn-ui_A" width="95"> <img src="svg/Snapdrop_A.svg" alt="Snapdrop_A" width="95"> <img src="svg/Sonatype-nexus-repository_A.svg" alt="Sonatype-nexus-repository_A" width="95"> <img src="svg/Sonatype-nexus-repository_B.svg" alt="Sonatype-nexus-repository_B" width="95"> <img src="svg/Sonatype_A.svg" alt="Sonatype_A" width="95"> <img src="svg/Splayer_A.svg" alt="Splayer_A" width="95"> <img src="svg/Squoosh_A.svg" alt="Squoosh_A" width="95"> <img src="svg/Stash_A.svg" alt="Stash_A" width="95"> <img src="svg/Sunpanel_A.svg" alt="Sunpanel_A" width="95"> <img src="svg/Superset_A.svg" alt="Superset_A" width="95"> <img src="svg/Superset_B.svg" alt="Superset_B" width="95"> <img src="svg/Superset_C.svg" alt="Superset_C" width="95"> <img src="svg/Superset_D.svg" alt="Superset_D" width="95"> <img src="svg/Superset_E.svg" alt="Superset_E" width="95"> <img src="svg/Superset_F.svg" alt="Superset_F" width="95"> <img src="svg/Superset_G.svg" alt="Superset_G" width="95"> <img src="svg/Swing-music_A.svg" alt="Swing-music_A" width="95"> <img src="svg/Synctv_A.svg" alt="Synctv_A" width="95"> <img src="svg/Synctv_B.svg" alt="Synctv_B" width="95"> <img src="svg/Tailchat_A.svg" alt="Tailchat_A" width="95"> <img src="svg/Taosync_A.svg" alt="Taosync_A" width="95"> <img src="svg/Teable_A.svg" alt="Teable_A" width="95"> <img src="svg/Team-mapper_A.svg" alt="Team-mapper_A" width="95"> <img src="svg/Teampass_A.svg" alt="Teampass_A" width="95"> <img src="svg/Telegram_A.svg" alt="Telegram_A" width="95"> <img src="svg/Telegram_B.svg" alt="Telegram_B" width="95"> <img src="svg/Telegram_C.svg" alt="Telegram_C" width="95"> <img src="svg/The-lounge_A.svg" alt="The-lounge_A" width="95"> <img src="svg/Thunderbird_A.svg" alt="Thunderbird_A" width="95"> <img src="svg/Tongyi_A.svg" alt="Tongyi_A" width="95"> <img src="svg/ToolBox_A.svg" alt="ToolBox_A" width="95"> <img src="svg/Traccar_A.svg" alt="Traccar_A" width="95"> <img src="svg/Ubuntu_A.svg" alt="Ubuntu_A" width="95"> <img src="svg/Ubuntu_B.svg" alt="Ubuntu_B" width="95"> <img src="svg/Ubuntu_C.svg" alt="Ubuntu_C" width="95"> <img src="svg/Unbalance_A.svg" alt="Unbalance_A" width="95"> <img src="svg/Unlock-music_A.svg" alt="Unlock-music_A" width="95"> <img src="svg/Unraid_A.svg" alt="Unraid_A" width="95"> <img src="svg/Uptime-kuma_A.svg" alt="Uptime-kuma_A" width="95"> <img src="svg/V2raya_A.svg" alt="V2raya_A" width="95"> <img src="svg/Vagrant_A.svg" alt="Vagrant_A" width="95"> <img src="svg/Vertex_A.svg" alt="Vertex_A" width="95"> <img src="svg/Vertex_B.svg" alt="Vertex_B" width="95"> <img src="svg/Vmware_A.svg" alt="Vmware_A" width="95"> <img src="svg/Vscode_A.svg" alt="Vscode_A" width="95"> <img src="svg/Vscode_B.svg" alt="Vscode_B" width="95"> <img src="svg/Vscodium_A.svg" alt="Vscodium_A" width="95"> <img src="svg/Vscodium_B.svg" alt="Vscodium_B" width="95"> <img src="svg/Vuetify_A.svg" alt="Vuetify_A" width="95"> <img src="svg/Wallabag_A.svg" alt="Wallabag_A" width="95"> <img src="svg/Wallabag_B.svg" alt="Wallabag_B" width="95"> <img src="svg/Wallabag_C.svg" alt="Wallabag_C" width="95"> <img src="svg/Wallos_A.svg" alt="Wallos_A" width="95"> <img src="svg/Watchtower_A.svg" alt="Watchtower_A" width="95"> <img src="svg/Wbo_A.svg" alt="Wbo_A" width="95"> <img src="svg/WebStorm_A.svg" alt="WebStorm_A" width="95"> <img src="svg/Wechat_A.svg" alt="Wechat_A" width="95"> <img src="svg/Wechat_B.svg" alt="Wechat_B" width="95"> <img src="svg/Weclone_A.svg" alt="Weclone_A" width="95"> <img src="svg/Wekan_A.svg" alt="Wekan_A" width="95"> <img src="svg/Wekan_B.svg" alt="Wekan_B" width="95"> <img src="svg/Whisparr_A.svg" alt="Whisparr_A" width="95"> <img src="svg/Wikijs_A.svg" alt="Wikijs_A" width="95"> <img src="svg/Willow_A.svg" alt="Willow_A" width="95"> <img src="svg/Windows-server_A.svg" alt="Windows-server_A" width="95"> <img src="svg/Windows10_A.svg" alt="Windows10_A" width="95"> <img src="svg/Windows7_A.svg" alt="Windows7_A" width="95"> <img src="svg/Windows8_A.svg" alt="Windows8_A" width="95"> <img src="svg/Windows95_A.svg" alt="Windows95_A" width="95"> <img src="svg/Wireguard_A.svg" alt="Wireguard_A" width="95"> <img src="svg/Wise-mapping_A.svg" alt="Wise-mapping_A" width="95"> <img src="svg/Wordpress_A.svg" alt="Wordpress_A" width="95"> <img src="svg/Writerside_A.svg" alt="Writerside_A" width="95"> <img src="svg/YouTrack_A.svg" alt="YouTrack_A" width="95"> <img src="svg/Youtube_A.svg" alt="Youtube_A" width="95"> <img src="svg/Youtube_B.svg" alt="Youtube_B" width="95"> <img src="svg/Youtube_C.svg" alt="Youtube_C" width="95"> <img src="svg/Youtube_D.svg" alt="Youtube_D" width="95"> <img src="svg/Youtube_E.svg" alt="Youtube_E" width="95"> <img src="svg/Zfile_A.svg" alt="Zfile_A" width="95"> <img src="svg/Zigbeemqtt_A.svg" alt="Zigbeemqtt_A" width="95"> <img src="svg/Zimaos_A.svg" alt="Zimaos_A" width="95"> <img src="svg/节点小宝_A.svg" alt="节点小宝_A" width="95">
 
 <!-- LEGAL -->
 
@@ -174,3 +174,4 @@ The use of these names, trademarks and brands appearing in these image files, do
 [![Powered by DartNode](https://dartnode.com/branding/DN-Open-Source-sm.png)](https://dartnode.com "Powered by DartNode - Free VPS for Open Source")
 
 </div>
+
